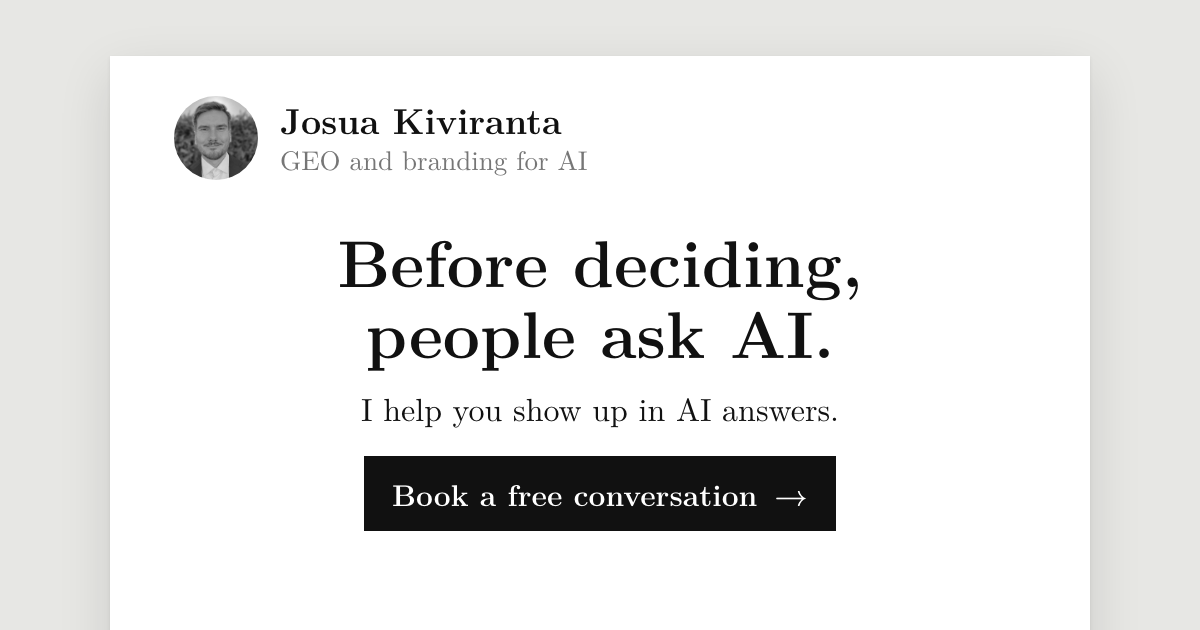
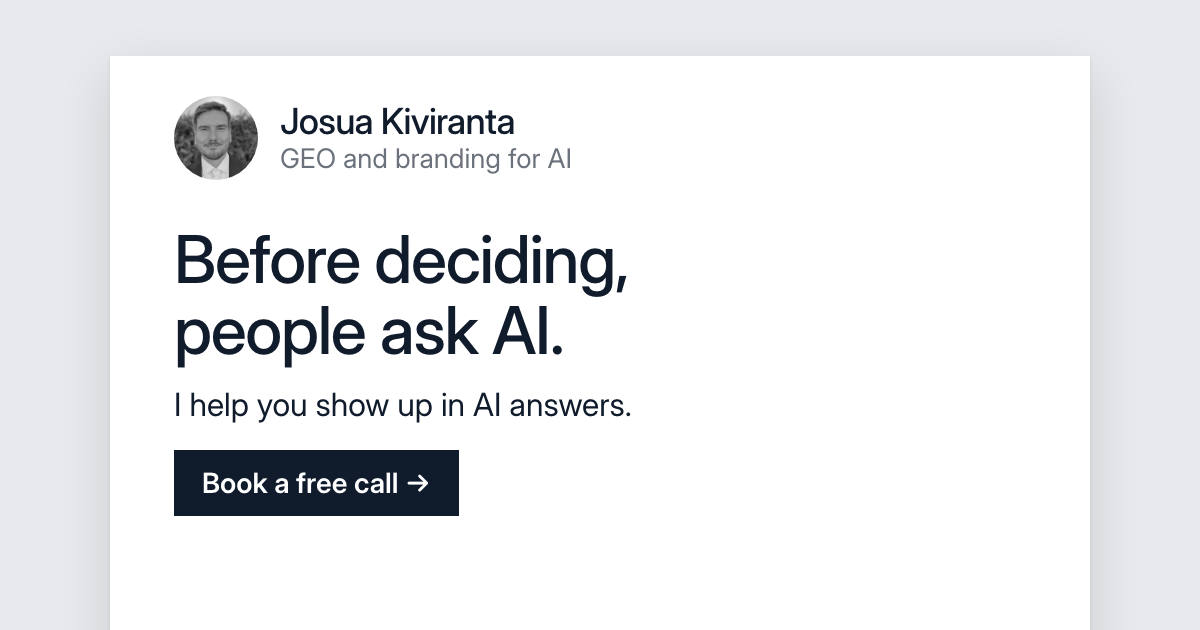
Link-preview card in look B1: Inter, navy, one left edge; button 'Book a free call'

diff --git a/og/card.html b/og/card.html
@@ -3,22 +3,22 @@
      public/og-card.png by generate-card.sh. Design "D, the page": the top of
      the site as a sheet on a grey desk, cropped at the bottom. Keep the text
      in step with the English copy in components/prototype/homepageCopy.ts
-     (role, problem, offer, the booking button). -->
+     (role, problem, offer, the booking button), and the look in step with
+     styles/theme.css (look B1: Inter, navy on white, one left edge). -->
 <html lang="en">
 <head>
 <meta charset="utf-8">
 <style>
-  @font-face { font-family: "LM Roman 10"; font-weight: 400; src: url("../public/fonts/lmroman10-regular.woff2") format("woff2"); }
-  @font-face { font-family: "LM Roman 12"; font-weight: 700; src: url("../public/fonts/lmroman12-bold.woff2") format("woff2"); }
+  @font-face { font-family: "Inter Variable"; font-weight: 100 900; src: url("../public/fonts/inter-latin-opsz-normal.woff2") format("woff2-variations"); }
 
   html, body { margin: 0; }
   body {
     width: 1200px;
     height: 630px;
     overflow: hidden;
-    background: #e7e7e4;
-    color: #111111;
-    font-family: "LM Roman 10", Georgia, serif;
+    background: rgb(231 233 236);
+    color: rgb(16 27 44);
+    font-family: "Inter Variable", system-ui, sans-serif;
     -webkit-font-smoothing: antialiased;
   }
   .page {
@@ -29,18 +29,19 @@
     height: 800px;
     box-sizing: border-box;
     padding: 40px 64px;
-    background: #ffffff;
+    background: rgb(255 255 255);
     box-shadow: 0 2px 4px rgba(0, 0, 0, 0.08), 0 18px 50px rgba(0, 0, 0, 0.12);
   }
-  .bold { font-family: "LM Roman 12", "LM Roman 10", Georgia, serif; font-weight: 700; }
+  .display { font-weight: 500; letter-spacing: -0.02em; }
+  .strong { font-weight: 600; }
   .head { display: flex; align-items: center; gap: 22px; }
   .head img { width: 84px; height: 84px; border-radius: 50%; object-fit: cover; object-position: 50% 35%; }
   .name { font-size: 36px; line-height: 1.15; }
-  .role { font-size: 27px; color: #767676; }
-  .hero { margin-top: 44px; text-align: center; }
+  .role { font-size: 27px; color: rgb(107 114 124); }
+  .hero { margin-top: 44px; }
   .problem { font-size: 66px; line-height: 1.08; }
   .offer { margin-top: 18px; font-size: 32px; }
-  .button { display: inline-block; margin-top: 26px; padding: 16px 28px; background: #111111; color: #ffffff; font-size: 30px; }
+  .button { display: inline-block; margin-top: 26px; padding: 16px 28px; background: rgb(16 27 44); color: rgb(255 255 255); font-size: 28px; }
 </style>
 </head>
 <body>
@@ -48,14 +49,14 @@
     <div class="head">
       <img src="../public/profile-photo.jpg" alt="">
       <div>
-        <div class="name bold">Josua Kiviranta</div>
+        <div class="name display">Josua Kiviranta</div>
         <div class="role">GEO and branding for AI</div>
       </div>
     </div>
     <div class="hero">
-      <div class="problem bold">Before deciding,<br>people ask AI.</div>
+      <div class="problem display">Before deciding,<br>people ask AI.</div>
       <div class="offer">I help you show up in AI answers.</div>
-      <div class="button bold">Book a free conversation&nbsp;→</div>
+      <div class="button strong">Book a free call&nbsp;→</div>
     </div>
   </div>
 </body>
